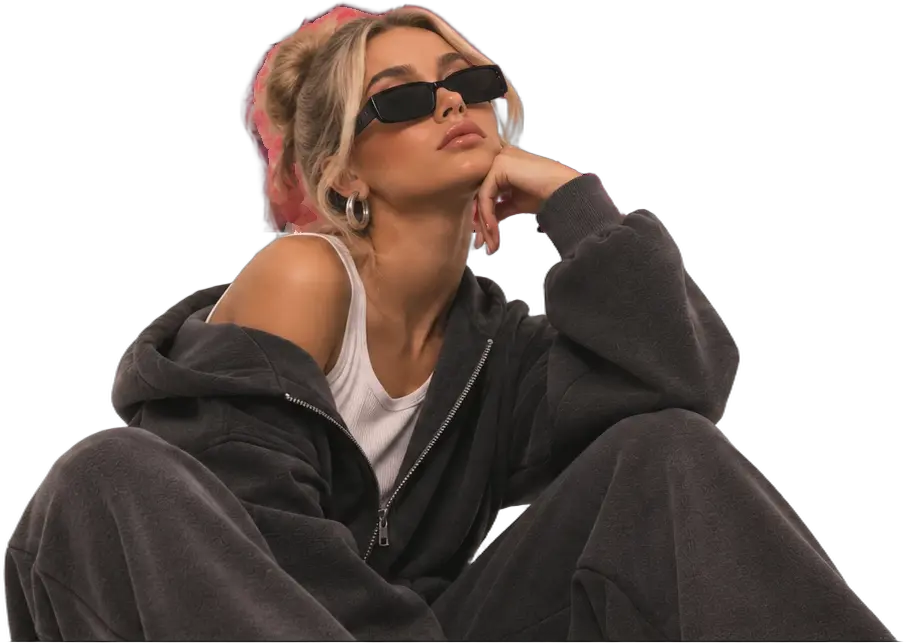
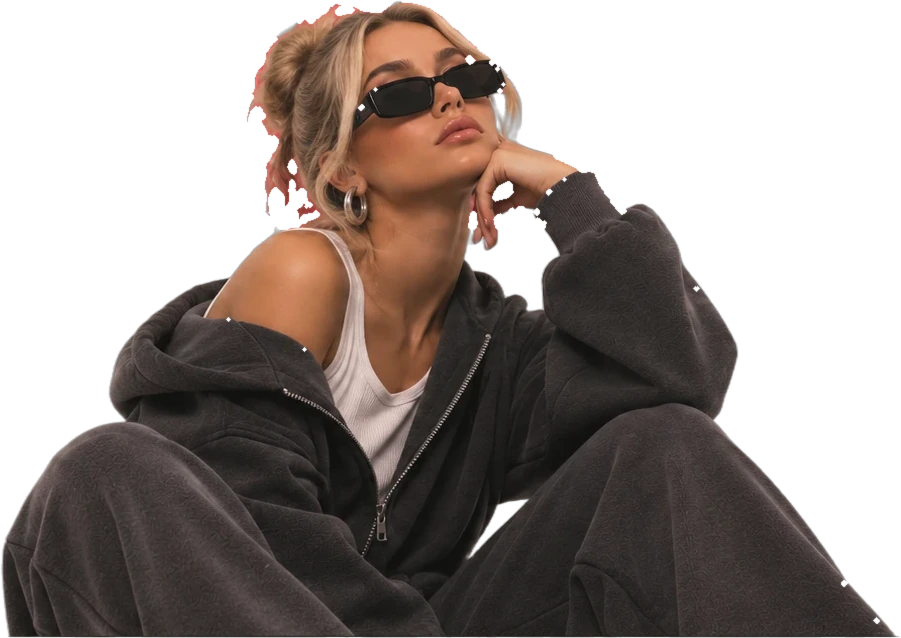
Corriger le détourage des cheveux du mannequin (hero)
- Nouveau détourage : les résidus de lettres roses dans les cheveux/chignon
  sont rendus transparents (au lieu de laisser une teinte rose), via détection
  magenta (bleu>vert) qui épargne la peau et les cheveux blonds.
- Composition mobile : réduction de la hauteur du hero pour que la tête du
  mannequin chevauche le wordmark rose (les mèches fusionnent dans le rose,
  comme sur desktop et dans la maquette).

Claude-Session: https://claude.ai/code/session_018hqvi5AkUNb4hH2nuGaGoH

diff --git a/components/home/Hero.tsx b/components/home/Hero.tsx
@@ -19,7 +19,7 @@ export function Hero() {
     <section className="relative overflow-hidden bg-cream" aria-label="TRENDS — Tech, mode & lifestyle">
       <Container bleed>
         {/* STAGE: wordmark + model */}
-        <div className="relative mx-auto h-[clamp(360px,52vw,660px)] w-full">
+        <div className="relative mx-auto h-[clamp(300px,52vw,660px)] w-full">
           {/* Oversized wordmark (behind the model) */}
           <h1 className="pointer-events-none absolute inset-x-0 top-[6%] z-0 m-0 flex justify-center">
             <span className="sr-only">TRENDS — {site.tagline}</span>
